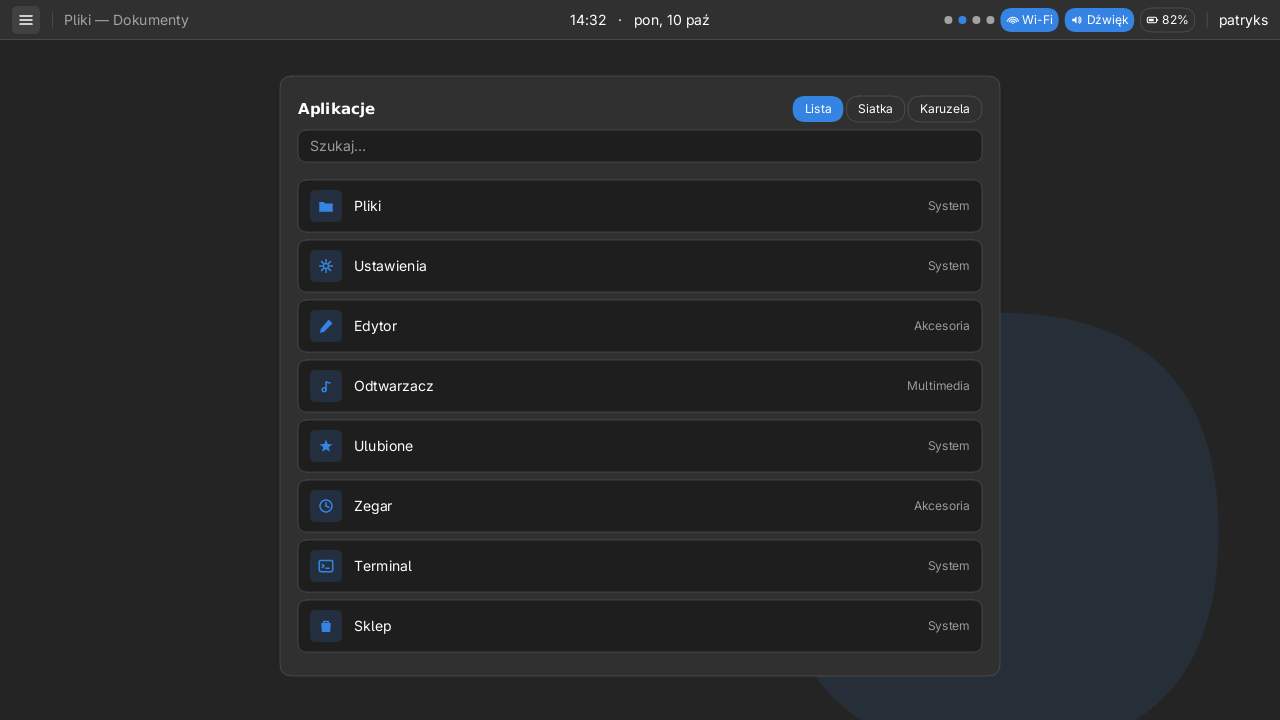
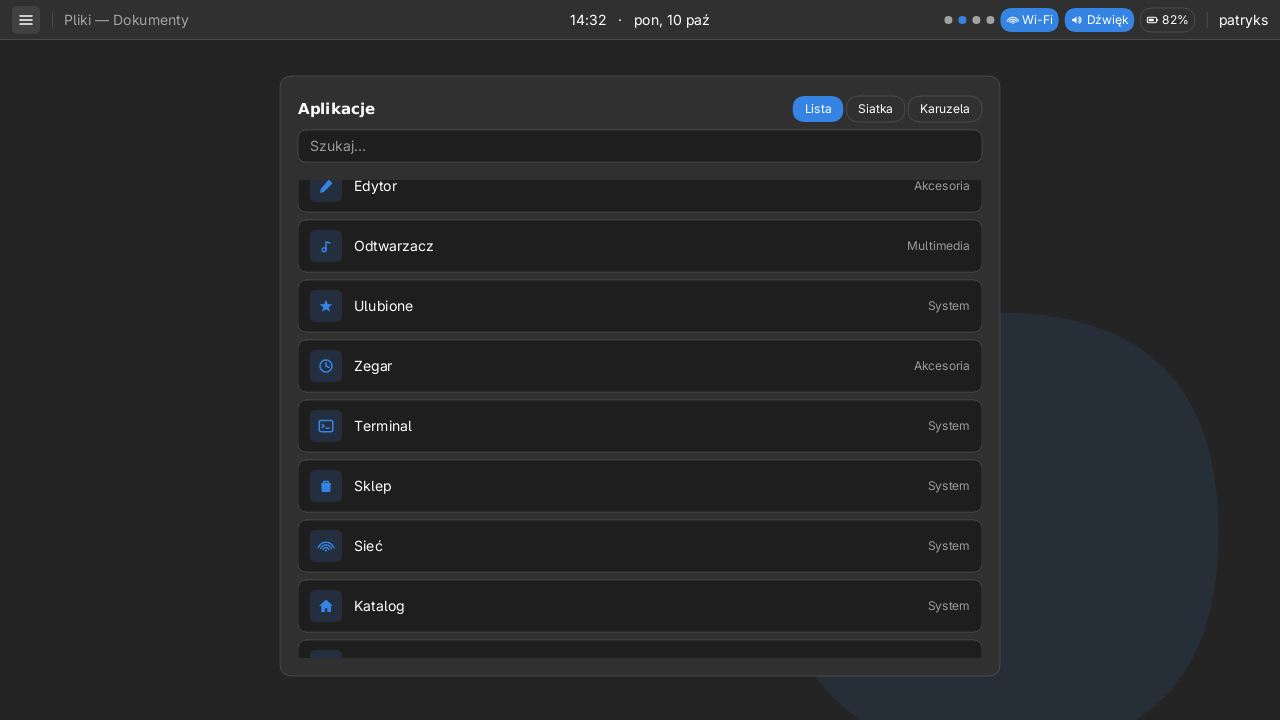
luna: przewijanie listy/siatki w launcherze (scroll + klip) + 12 pozycji

diff --git a/de/luna/src/panel.rs b/de/luna/src/panel.rs
@@ -122,11 +122,13 @@ impl LauncherView {
     }
 }
 
-/// Stan launchera (widok + bieżąca karta karuzeli).
+/// Stan launchera (widok + bieżąca karta karuzeli + przewinięcie).
 #[derive(Debug, Clone, Default)]
 pub struct Launcher {
     pub view: LauncherView,
     pub carousel: usize,
+    /// Pionowe przewinięcie zawartości (Lista/Siatka), w pikselach.
+    pub scroll: f64,
 }
 
 impl Launcher {
@@ -153,7 +155,7 @@ pub struct App {
 impl App {
     /// Przykładowy zestaw ikon (podglądy).
     pub fn sample() -> Vec<App> {
-        const APPS: [(IconName, &str, &str); 8] = [
+        const APPS: [(IconName, &str, &str); 12] = [
             (IconName::Files, "Pliki", "System"),
             (IconName::Settings, "Ustawienia", "System"),
             (IconName::Edit, "Edytor", "Akcesoria"),
@@ -162,6 +164,10 @@ impl App {
             (IconName::Clock, "Zegar", "Akcesoria"),
             (IconName::Terminal, "Terminal", "System"),
             (IconName::Store, "Sklep", "System"),
+            (IconName::Wifi, "Sieć", "System"),
+            (IconName::Home, "Katalog", "System"),
+            (IconName::User, "Konta", "System"),
+            (IconName::Info, "Pomoc", "System"),
         ];
         APPS.iter()
             .map(|(i, n, c)| App {
@@ -409,9 +415,16 @@ pub fn launcher_app_at(
     p: Point,
 ) -> Option<usize> {
     let content = launcher_rects(area, theme, text).content;
+    let sy = launcher.scroll;
     match launcher.view {
-        LauncherView::Grid => (0..apps.len()).find(|&i| grid_tile(content, i).contains(p)),
-        LauncherView::List => (0..apps.len()).find(|&i| list_row(content, i).contains(p)),
+        LauncherView::Grid => (0..apps.len()).find(|&i| {
+            let t = grid_tile(content, i);
+            Rect::from_xywh(t.x(), t.y() - sy, t.width(), t.height()).contains(p)
+        }),
+        LauncherView::List => (0..apps.len()).find(|&i| {
+            let t = list_row(content, i);
+            Rect::from_xywh(t.x(), t.y() - sy, t.width(), t.height()).contains(p)
+        }),
         LauncherView::Carousel => {
             (0..apps.len()).find(|&i| carousel_card(content, i, launcher.carousel).contains(p))
         }
@@ -452,6 +465,28 @@ fn carousel_card(content: Rect, i: usize, selected: usize) -> Rect {
     )
 }
 
+/// Maksymalne pionowe przewinięcie dla danego widoku.
+pub fn launcher_scroll_max(
+    apps: &[App],
+    launcher: &Launcher,
+    area: Rect,
+    theme: &Theme,
+    text: &TextEngine,
+) -> f64 {
+    let content = launcher_rects(area, theme, text).content;
+    let gap_list = 8.0;
+    let gap_grid = 12.0;
+    let total = match launcher.view {
+        LauncherView::List => (apps.len() as f64) * (LIST_ROW_H + gap_list) - gap_list,
+        LauncherView::Grid => {
+            let rows = apps.len().div_ceil(GRID_COLS) as f64;
+            rows * (GRID_CELL_H + gap_grid) - gap_grid
+        }
+        LauncherView::Carousel => 0.0,
+    };
+    (total - content.height()).max(0.0)
+}
+
 /// Rysuje launcher w zadanym prostokącie.
 pub fn paint_launcher(apps: &[App], launcher: &Launcher, ctx: &mut PaintCtx, area: Rect) {
     let t = *ctx.theme;
@@ -490,37 +525,42 @@ pub fn paint_launcher(apps: &[App], launcher: &Launcher, ctx: &mut PaintCtx, are
         t.colors.dim_text,
     );
 
-    // Liczba pozycji mieszczących się w obszarze zawartości (bez przewijania).
-    let max_grid = (((r.content.height() + 12.0) / (GRID_CELL_H + 12.0))
-        .floor()
-        .max(0.0) as usize)
-        * GRID_COLS;
-    let max_list = ((r.content.height() + 8.0) / (LIST_ROW_H + 8.0))
-        .floor()
-        .max(0.0) as usize;
-
+    // Zawartość przewijana pionowo (Lista/Siatka) — obcinana do karty.
+    let scroll = launcher.scroll;
+    ctx.scene.push_clip(r.content);
     match launcher.view {
         LauncherView::Grid => {
-            for (i, app) in apps.iter().take(max_grid).enumerate() {
-                paint_grid_tile(app, ctx, grid_tile(r.content, i));
+            for (i, app) in apps.iter().enumerate() {
+                let t = grid_tile(r.content, i);
+                paint_grid_tile(
+                    app,
+                    ctx,
+                    Rect::from_xywh(t.x(), t.y() - scroll, t.width(), t.height()),
+                );
             }
         }
         LauncherView::List => {
-            for (i, app) in apps.iter().take(max_list).enumerate() {
-                paint_list_row(app, ctx, list_row(r.content, i));
+            for (i, app) in apps.iter().enumerate() {
+                let t = list_row(r.content, i);
+                paint_list_row(
+                    app,
+                    ctx,
+                    Rect::from_xywh(t.x(), t.y() - scroll, t.width(), t.height()),
+                );
             }
         }
         LauncherView::Carousel => {
             for (i, app) in apps.iter().enumerate() {
-                let card = carousel_card(r.content, i, launcher.carousel);
-                // Rysujemy tylko karty mieszczące się całe w obszarze (brak obcinania tekstu).
-                if card.x() < r.content.x() || card.right() > r.content.right() {
-                    continue;
-                }
-                paint_carousel_card(app, i == launcher.carousel, ctx, card);
+                paint_carousel_card(
+                    app,
+                    i == launcher.carousel,
+                    ctx,
+                    carousel_card(r.content, i, launcher.carousel),
+                );
             }
         }
     }
+    ctx.scene.pop_clip();
 }
 
 /// Kafelek siatki: ikona + nazwa.
@@ -681,7 +721,11 @@ mod tests {
             &mut ctx,
             Rect::from_xywh(0.0, 0.0, 1280.0, THICKNESS),
         );
-        let launcher = Launcher { view, carousel: 2 };
+        let launcher = Launcher {
+            view,
+            carousel: 2,
+            scroll: 0.0,
+        };
         paint_launcher(&App::sample(), &launcher, &mut ctx, area());
         scene.len()
     }
@@ -712,6 +756,29 @@ mod tests {
     }
 
     #[test]
+    fn list_scroll_is_clamped_and_offsets_hit_test() {
+        let theme = Theme::light();
+        let text = TextEngine::none();
+        let apps = App::sample();
+        let mut launcher = Launcher {
+            view: LauncherView::List,
+            carousel: 0,
+            scroll: 0.0,
+        };
+        let max = launcher_scroll_max(&apps, &launcher, area(), &theme, &text);
+        assert!(max > 0.0, "lista 12 pozycji powinna się przewijać");
+
+        // Po przewinięciu o jeden wiersz pierwsza pozycja jest nad obszarem → trafiamy w drugą.
+        launcher.scroll = (LIST_ROW_H + 8.0).min(max);
+        let r = launcher_rects(area(), &theme, &text);
+        let top = Point::new(r.content.x() + 5.0, r.content.y() + 5.0);
+        assert_eq!(
+            launcher_app_at(&apps, &launcher, area(), &theme, &text, top),
+            Some(1)
+        );
+    }
+
+    #[test]
     fn all_three_views_paint() {
         assert!(panel_commands(LauncherView::List) > 20);
         assert!(panel_commands(LauncherView::Grid) > 20);
@@ -724,7 +791,11 @@ mod tests {
         let text = TextEngine::none();
         let apps = App::sample();
         for view in LauncherView::ALL {
-            let launcher = Launcher { view, carousel: 2 };
+            let launcher = Launcher {
+                view,
+                carousel: 2,
+                scroll: 0.0,
+            };
             let r = launcher_rects(area(), &theme, &text);
             // Punkt wnętrza znanej pozycji (pierwszy kafel/wiersz, albo środek wybranej karty).
             let (p, expected) = match view {

diff --git a/de/luna/src/bin/luna-shell.rs b/de/luna/src/bin/luna-shell.rs
@@ -52,17 +52,27 @@ fn main() -> Result<(), Box<dyn Error>> {
         // ── Obsługa wejścia ──
         for ev in frame.events {
             match ev {
-                Event::PointerButton(pe) if pe.state == ButtonState::Pressed => match pe.button {
-                    PointerButton::Left
-                        if panel::burger_rect(bar, &frame.theme).contains(pe.position) =>
-                    {
+                Event::PointerButton(pe)
+                    if pe.state == ButtonState::Pressed && pe.button == PointerButton::Left =>
+                {
+                    if panel::burger_rect(bar, &frame.theme).contains(pe.position) {
                         open = !open;
-                    }
-                    PointerButton::Left if open => {
+                        if open {
+                            let max = panel::launcher_scroll_max(
+                                &apps,
+                                &launcher,
+                                larea,
+                                &frame.theme,
+                                text,
+                            );
+                            launcher.scroll = launcher.scroll.clamp(0.0, max);
+                        }
+                    } else if open {
                         if let Some(v) =
                             panel::launcher_view_at(larea, &frame.theme, text, pe.position)
                         {
                             launcher.view = v;
+                            launcher.scroll = 0.0;
                         } else if panel::launcher_app_at(
                             &apps,
                             &launcher,
@@ -76,8 +86,17 @@ fn main() -> Result<(), Box<dyn Error>> {
                             open = false;
                         }
                     }
-                    _ => {}
-                },
+                }
+                Event::Scroll(se) if open => {
+                    if panel::launcher_rects(larea, &frame.theme, text)
+                        .content
+                        .contains(se.position)
+                    {
+                        let max =
+                            panel::launcher_scroll_max(&apps, &launcher, larea, &frame.theme, text);
+                        launcher.scroll = (launcher.scroll - se.dy * 24.0).clamp(0.0, max);
+                    }
+                }
                 Event::Key(ke) if ke.keysym == 0xff1b => open = false, // Escape
                 _ => {}
             }

diff --git a/de/luna/src/bin/luna-panel.rs b/de/luna/src/bin/luna-panel.rs
@@ -29,6 +29,7 @@ fn main() -> Result<(), Box<dyn Error>> {
         let launcher = Launcher {
             view: LauncherView::Grid,
             carousel: 0,
+            scroll: 0.0,
         };
         panel::paint_desktop(&pstate, &apps, &launcher, &mut paint, size);
 
@@ -55,7 +56,7 @@ fn main() -> Result<(), Box<dyn Error>> {
         )?;
     }
 
-    // 2) Launcher w trzech widokach (ciemny motyw).
+    // 2) Launcher w trzech widokach (ciemny motyw). Lista pokazuje przewinięcie.
     for (name, view) in [
         ("list", LauncherView::List),
         ("grid", LauncherView::Grid),
@@ -64,7 +65,15 @@ fn main() -> Result<(), Box<dyn Error>> {
         let theme = Theme::dark();
         let mut scene = Scene::new();
         let mut paint = PaintCtx::new(&mut scene, &theme, &text);
-        let launcher = Launcher { view, carousel: 2 };
+        let launcher = Launcher {
+            view,
+            carousel: 2,
+            scroll: if view == LauncherView::List {
+                140.0
+            } else {
+                0.0
+            },
+        };
         panel::paint_desktop(&pstate, &apps, &launcher, &mut paint, size);
         save(
             &scene,
